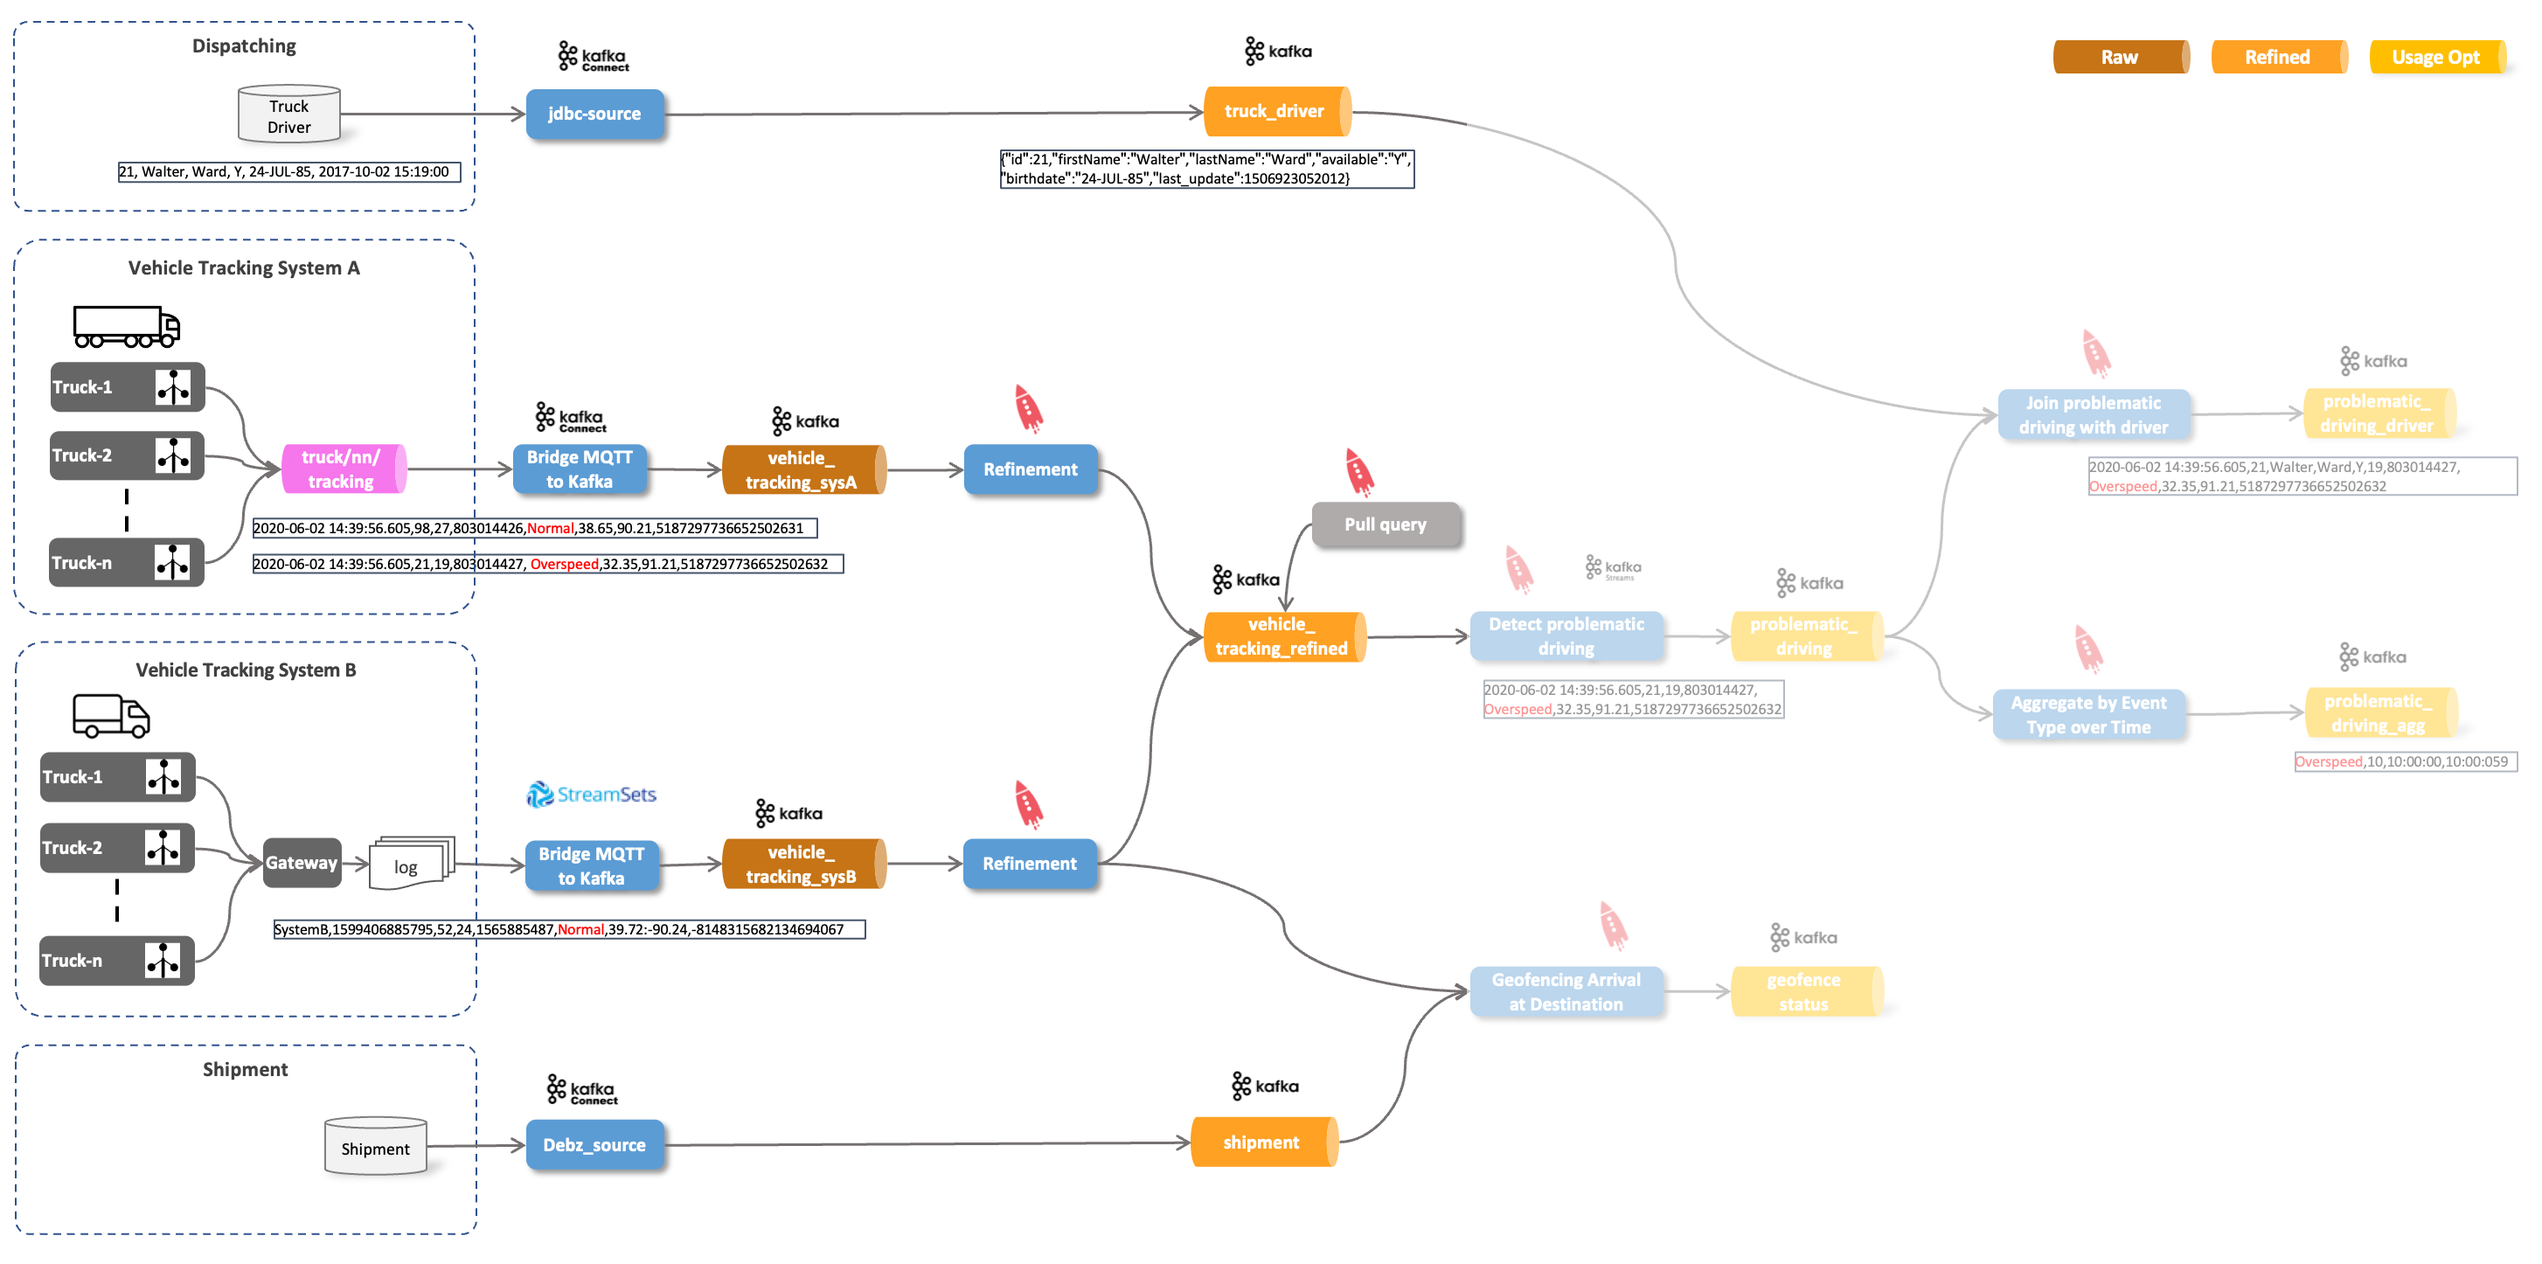
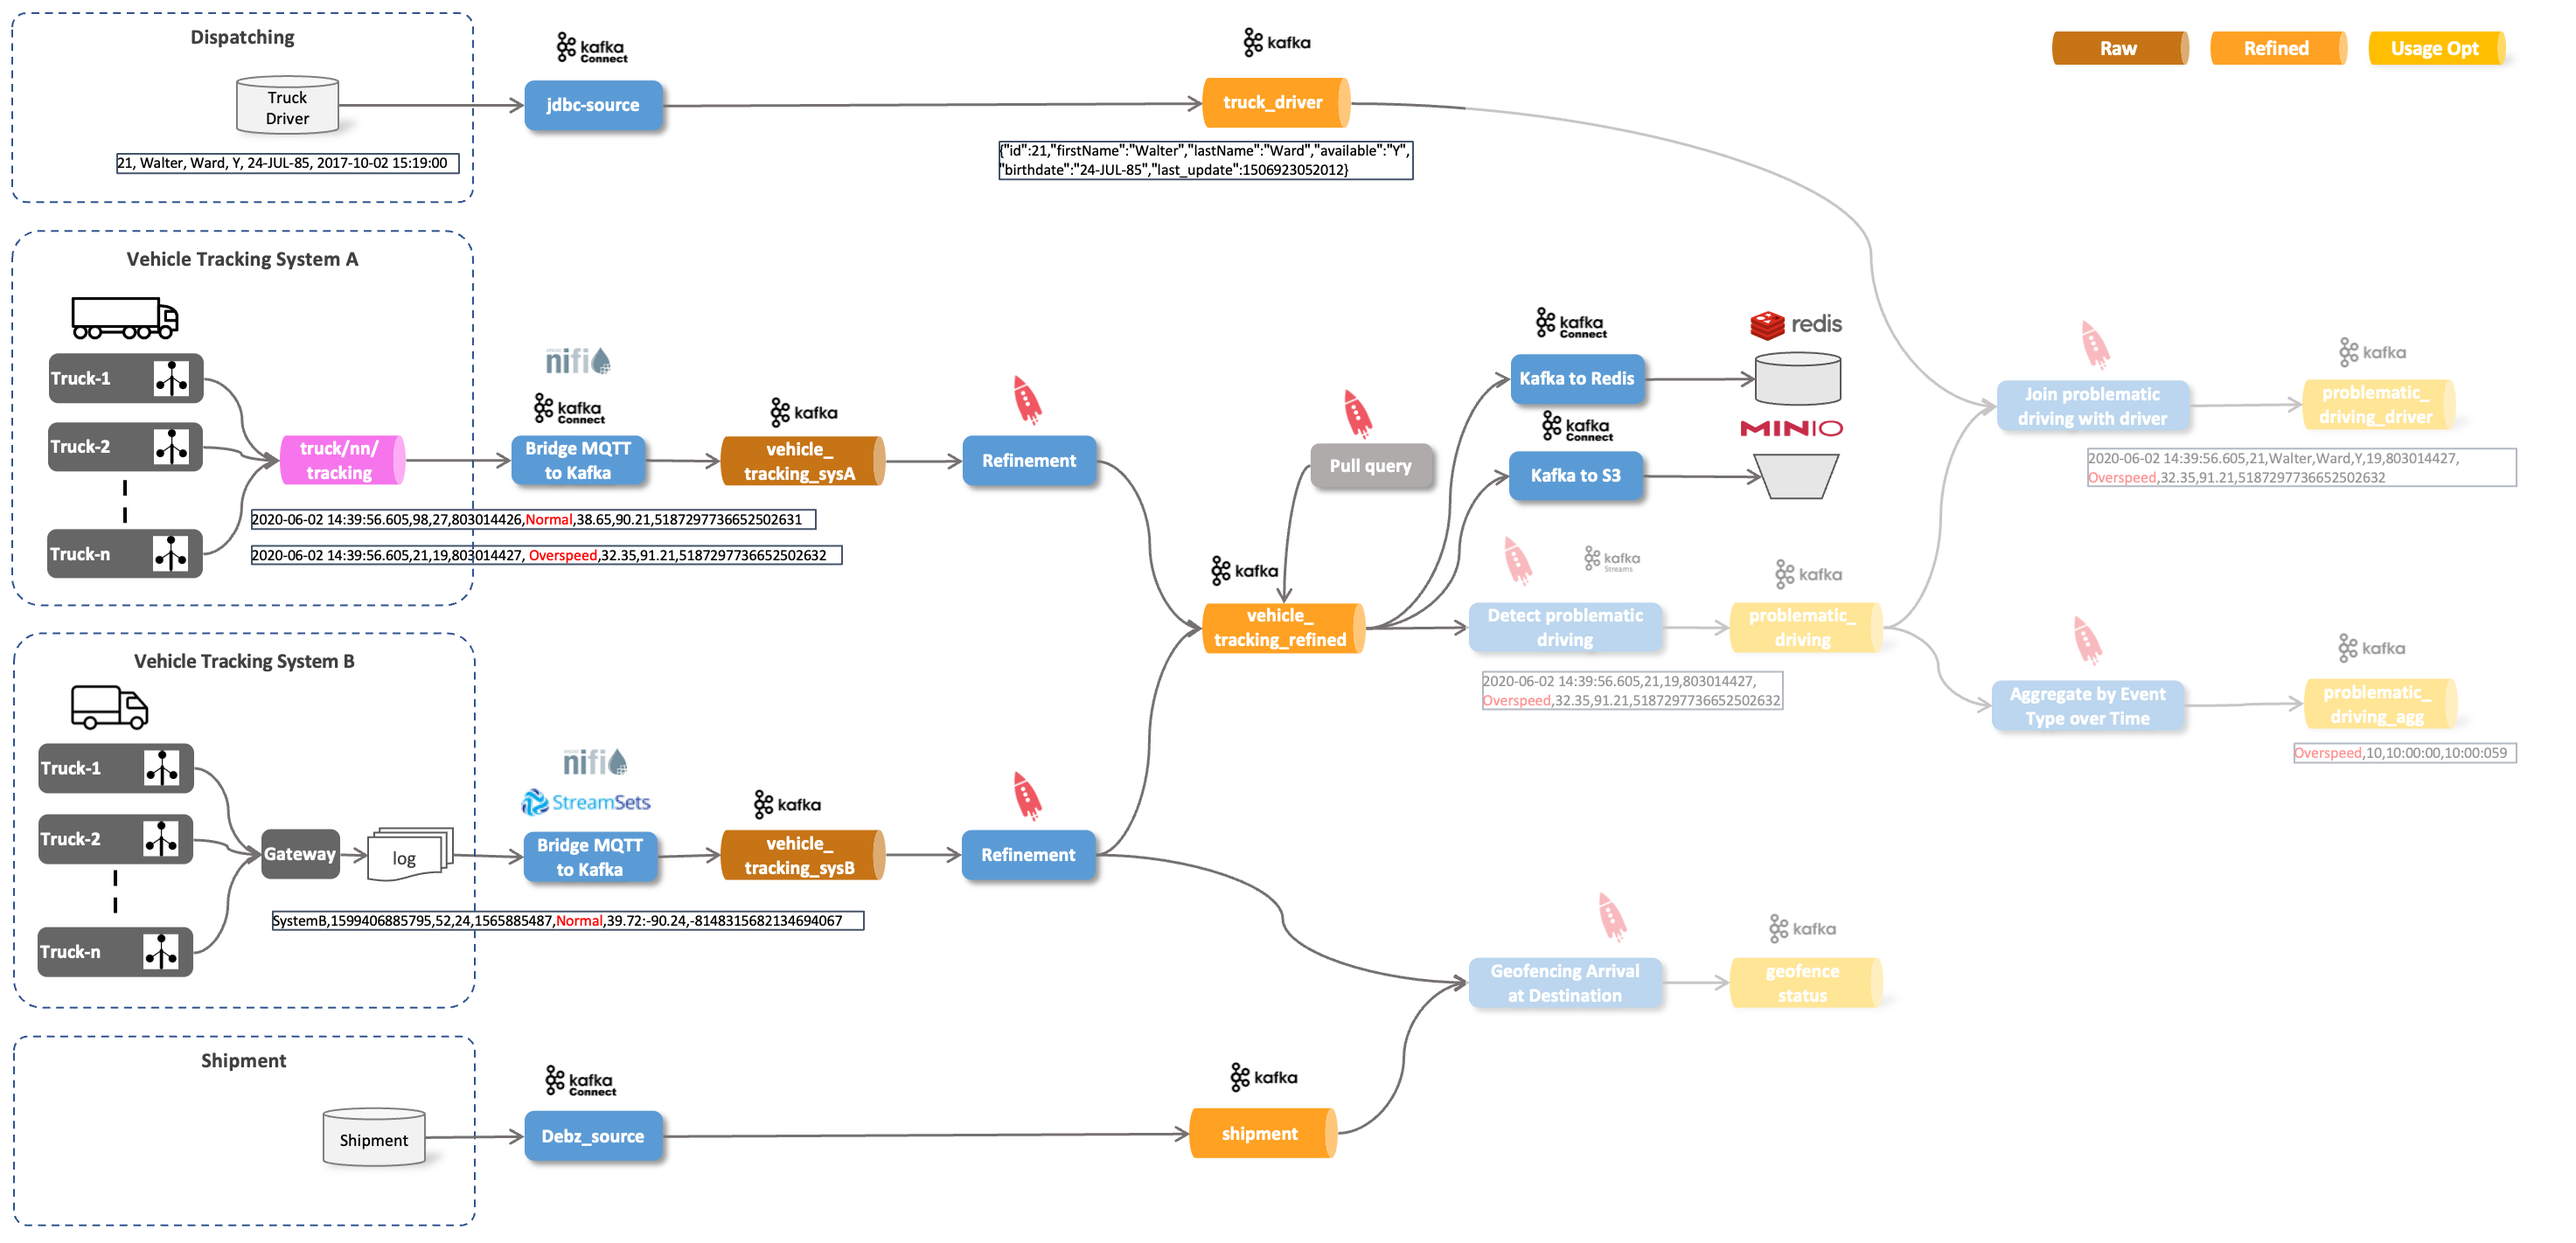
update

diff --git a/07-iot-data-ingestion-and-transformation/README.md b/07-iot-data-ingestion-and-transformation/README.md
@@ -18,4 +18,5 @@ We will implement this end-to-end demo case step by step using different technol
 3. [Ingesting simulated IoT from System B into Kafka](../07c-iot-data-ingestion-sys-b-into-kafka/README.md)
 3. [Refining data into a normalized topic using ksqlDB](../07d-iot-data-normalization-using-ksqldb/README.md)
 4. [Using Pull query to get data](../07e-iot-queryable-data/README.md)
-4. [Ingesting Static Data](../07f-static-data-ingestion/README.md)
+4. [Using Kafka Connect to write data to Redis and Minio](../07f-data-egestion-to-redis-and-minio/README.md)
+4. [Ingesting Static Data](../07g-static-data-ingestion/README.md)
